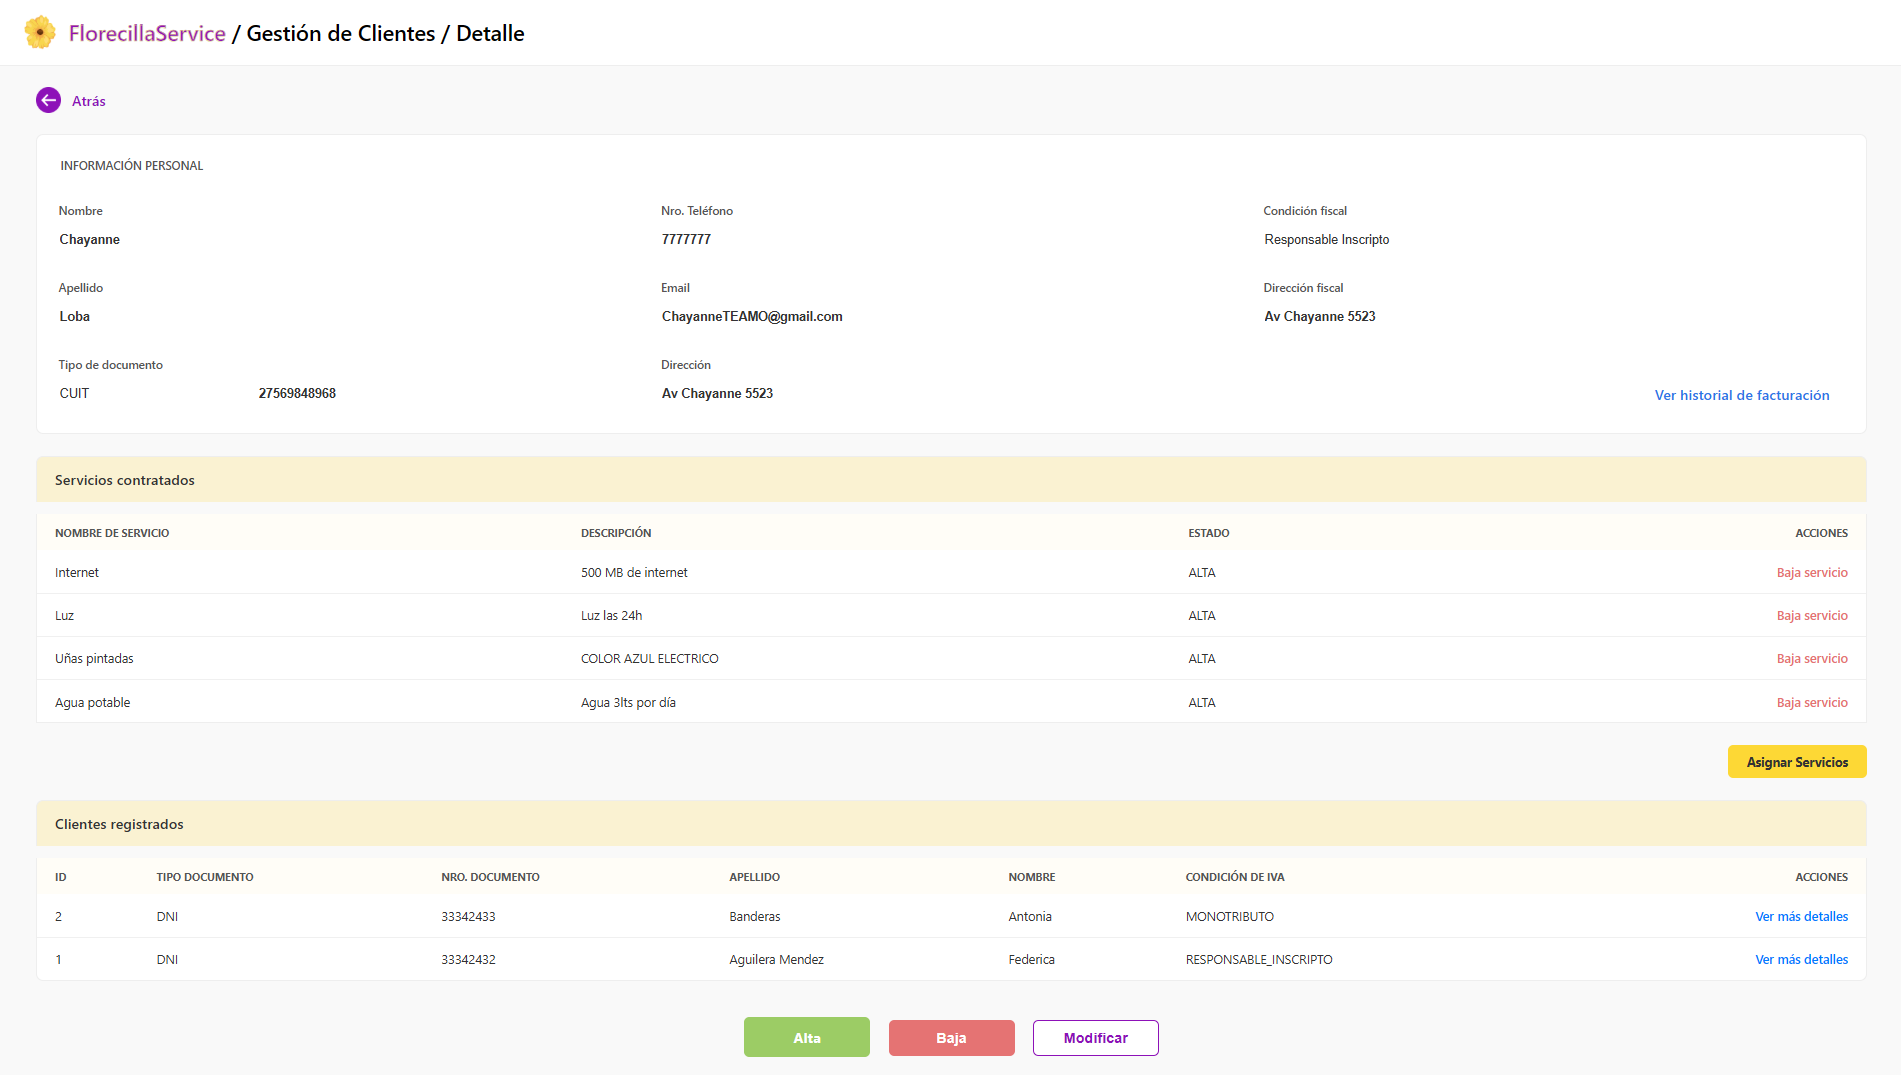
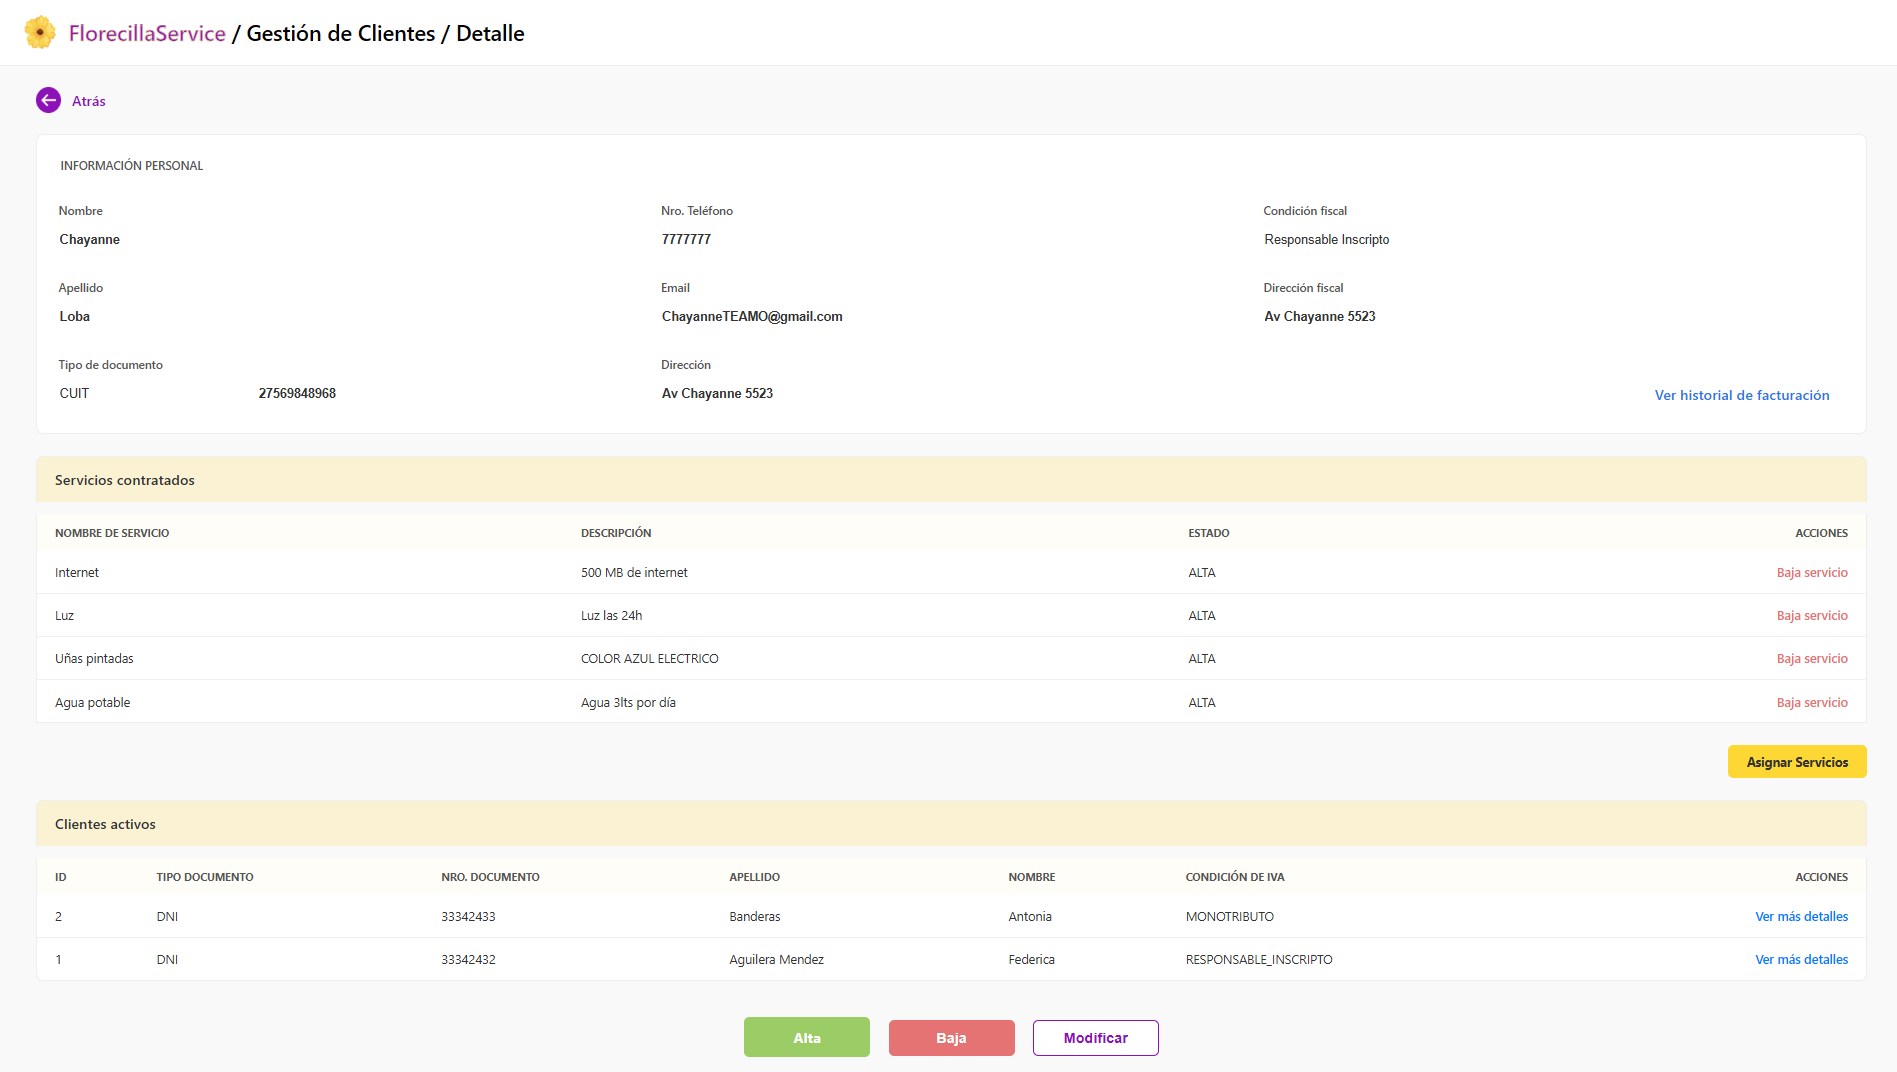
Modifico el nombre de la tabla de la vista de detalle de cliente, porque había quedado como 'clientes registrados'. Adjunto también la pantalla modificada con los cambios para agregarla a la dp-iteracion2

diff --git a/src/main/resources/templates/gestion-clientes-detalle.html b/src/main/resources/templates/gestion-clientes-detalle.html
@@ -134,7 +134,7 @@
     </div>
 
     <div class="table-container">
-        <h2 class="table-title">Clientes registrados</h2>
+        <h2 class="table-title">Clientes activos</h2>
         <div class="table-wrapper table-wrapper-bottom">
             <table>
                 <thead>
